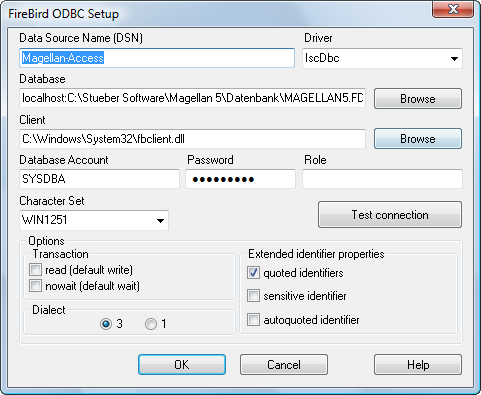
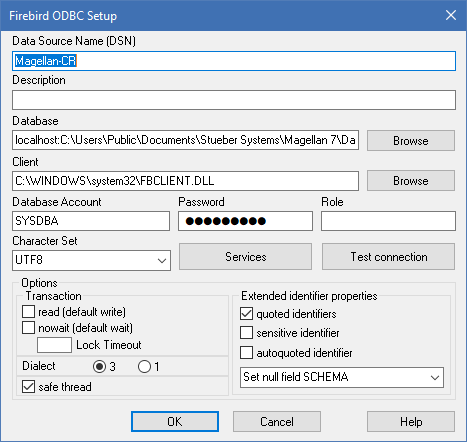
no message

diff --git a/docs/admin/access.anbindung.md b/docs/admin/access.anbindung.md
@@ -38,11 +38,6 @@ Abbildung 256: Dialogfenster „ODBC-Datenquellen-Administrator“
 ![ODBC-Datenquellen-Administrator](../assets/images/Import_Export.ODBC2.png)
 
 
-<figure class="center">
-    <img src="images/Import_Export.ODBC2.png" alt="ODBC-Datenquellen-Administrator">
-    <figcaption>ODBC-Datenquellen-Administrator</figcaption>
-</figure>
-
 
 
 Im Dialogfenster „ODBC-Datenquellen-Administrator“ können Sie nun unterschiedliche Möglichkeiten wählen, um eine ODBC-Verbindung aufzubauen.
@@ -62,11 +57,11 @@ Bei der benutzerabhängigen ODBC-Datenquelle wird die Einrichtung pro Benutzer a
 Feld|Anmerkung
 --|--
 DSN| Geben Sie hier eine freie festzulegenden Namen für Ihre ODBC-verbindung an. Für die weiteren Betrachtungen wählen wir hier die Bezeichnung „MAGELLANAccess“.
-Database|Hier geben Sie den lokalen Pfad der MAGELLAN-Datenbank an, analog zur Installation von MAGELLAN. Dies ist entweder der lokale Pfad der MAGELLAN-Datenbank auf Ihrem Einzelplatzrechner (z.B. LOCALHOST:C:\Users\Public\Documents\Stueber Software\MAGELLAN 6\Datenbank\MAGELLAN6.fdb) oder der lokale Pfad des Servers inkl. Servernamen der MAGELLAN-Datenbank auf einer Arbeitsstation im Netzwerk (z.B. MeinServer: C:\Users\Public\Documents\Stueber Software\MAGELLAN 6\Datenbank\MAGELLAN6.fdb)
+Database|Hier geben Sie den lokalen Pfad der MAGELLAN-Datenbank an, analog zur Installation von MAGELLAN. Dies ist entweder der lokale Pfad der MAGELLAN-Datenbank auf Ihrem Einzelplatzrechner (z.B. LOCALHOST:C:\Users\Public\Documents\Stueber Software\MAGELLAN 7\Datenbank\MAGELLAN7.fdb) oder der lokale Pfad des Servers inkl. Servernamen der MAGELLAN-Datenbank auf einer Arbeitsstation im Netzwerk (z.B. MeinServer: C:\Users\Public\Documents\Stueber Systems\MAGELLAN 7\Datenbank\MAGELLAN7.fdb)
 Client|Hier geben Sie bitte den folgenden Pfad zur Treiberdatei fbclient.dll an (C:\WINDOWS\system32\fbclient.dll)
 Database Account|Hier können Sie einen Benutzer aus der Benutzerverwaltung von MAGELLAN angeben. Standardmäßig ist dies „sysdba“. Geben Sie hier keinen Wert an, werden Sie beim ersten Aufruf eines Access-Berichtes aus MAGELLAN automatisch nach dem Benutzer gefragt.
 Password|Hier können Sie ein zum Benutzer passendes Kennwort aus der Benutzerverwaltung von MAGELLAN angeben, der das Recht zum Drucken hat. Standardmäßig ist dies „masterkey“ für den Benutzer „sysdba“. Geben Sie hier keinen Wert an, werden Sie beim ersten Aufruf eines Access-Berichtes aus MAGELLAN automatisch nach dem Kennwort gefragt.
-Character Set|Hier müssen Sie den Zeichensatz WIN1251 einstellen.
+Character Set|Hier müssen Sie den Zeichensatz UTF8 einstellen.
 
 
 ![Das Dialogfenster „FirebirdODBC Setup“](../assets/images/Import_Export.ODBC.png) 
@@ -81,7 +76,7 @@ Nachdem Sie die ODBC-Verbindung im ersten Schritt erstellt haben, müssen Sie je
 
 3. Wählen Sie im Dialog `Neu` auf der Registerkarte `Allgemein `die Option `Datenbank` und klicken Sie dann auf `OK`.
 
-4. Speichern Sie die neue Datenbank unter einem Namen ab, z.B. unter` C:\Stueber Software\MAGELLAN 6\Datenbank\MAGELLAN6.mdb`.
+4. Speichern Sie die neue Datenbank unter einem Namen ab, z.B. unter` C:\Stueber Software\MAGELLAN 7\Datenbank\MAGELLAN7.mdb`.
 
 5. Wählen Sie unter `Objekte `den Bereich `Tabellen`. Hier sind noch keine Tabellen eingetragen.
 
@@ -95,11 +90,14 @@ Nachdem Sie die ODBC-Verbindung im ersten Schritt erstellt haben, müssen Sie je
 
 Während der Erstellung der Tabellenverknüpfungen werden Sie bei einigen Tabellen aufgefordert, eindeutige Datensatzbezeichner auszuwählen. Hier können Sie jeweils auf `Abbrechen `klicken, da diese Einstellungen für das Drucken nicht relevant sind.
 
-Die Access-Datenbank MAGELLAN6.mdb ist jetzt erstellt und besitzt über die Tabellen einen direkten Zugriff auf die originale Firebird MAGELLAN-Datenbank MAGELLAN6.fdb.
+Die Access-Datenbank MAGELLAN7.mdb ist jetzt erstellt und besitzt über die Tabellen einen direkten Zugriff auf die originale Firebird MAGELLAN-Datenbank MAGELLAN7.fdb.
 
-> #### warning::Wichtig!
->
->  Beim Erstellen der Verknüpfungen zu der Tabelle „Schueler“ unter Microsoft Access erhalten Sie von Access die Rückmeldung, dass eine Verknüpfung nicht möglich ist. Die Tabellen „Schueler“ und „Lehrer“ enthalten mehr als 32 Datenbankindizes. Microsoft Access kann maximal 32 Datenbankindizes verarbeiten. Eine Verknüpfung über den von uns mitgelieferten aktuellen Firebird Open Source Treiber erzeugt daher die korrekte Fehlermeldung. Sie können in der MAGELLAN-Datenbank anstelle der Tabellen „Schueler“ bzw. „Lehrer“ das View „Schueler2“ bzw. „Lehrer2“ verwenden. Beim Verknüpfen von Views werden in Access keine Indizes erzeugt, so dass es keine Probleme mehr gibt. Die beiden View „Schueler2“ bzw. „Lehrer2“ verweisen auf alle Felder der Tabelle „Schueler“ bzw. „Lehrer“.
+
+
+
+!!! info "Hinweis"
+
+      Beim Erstellen der Verknüpfungen zu der Tabelle „Schueler“ unter Microsoft Access erhalten Sie von Access die Rückmeldung, dass eine Verknüpfung nicht möglich ist. Die Tabellen „Schueler“ und „Lehrer“ enthalten mehr als 32 Datenbankindizes. Microsoft Access kann maximal 32 Datenbankindizes verarbeiten. Eine Verknüpfung über den von uns mitgelieferten aktuellen Firebird Open Source Treiber erzeugt daher die korrekte Fehlermeldung. Sie können in der MAGELLAN-Datenbank anstelle der Tabellen „Schueler“ bzw. „Lehrer“ das View „Schueler2“ bzw. „Lehrer2“ verwenden. Beim Verknüpfen von Views werden in Access keine Indizes erzeugt, so dass es keine Probleme mehr gibt. Die beiden View „Schueler2“ bzw. „Lehrer2“ verweisen auf alle Felder der Tabelle „Schueler“ bzw. „Lehrer“.
 
 
 
